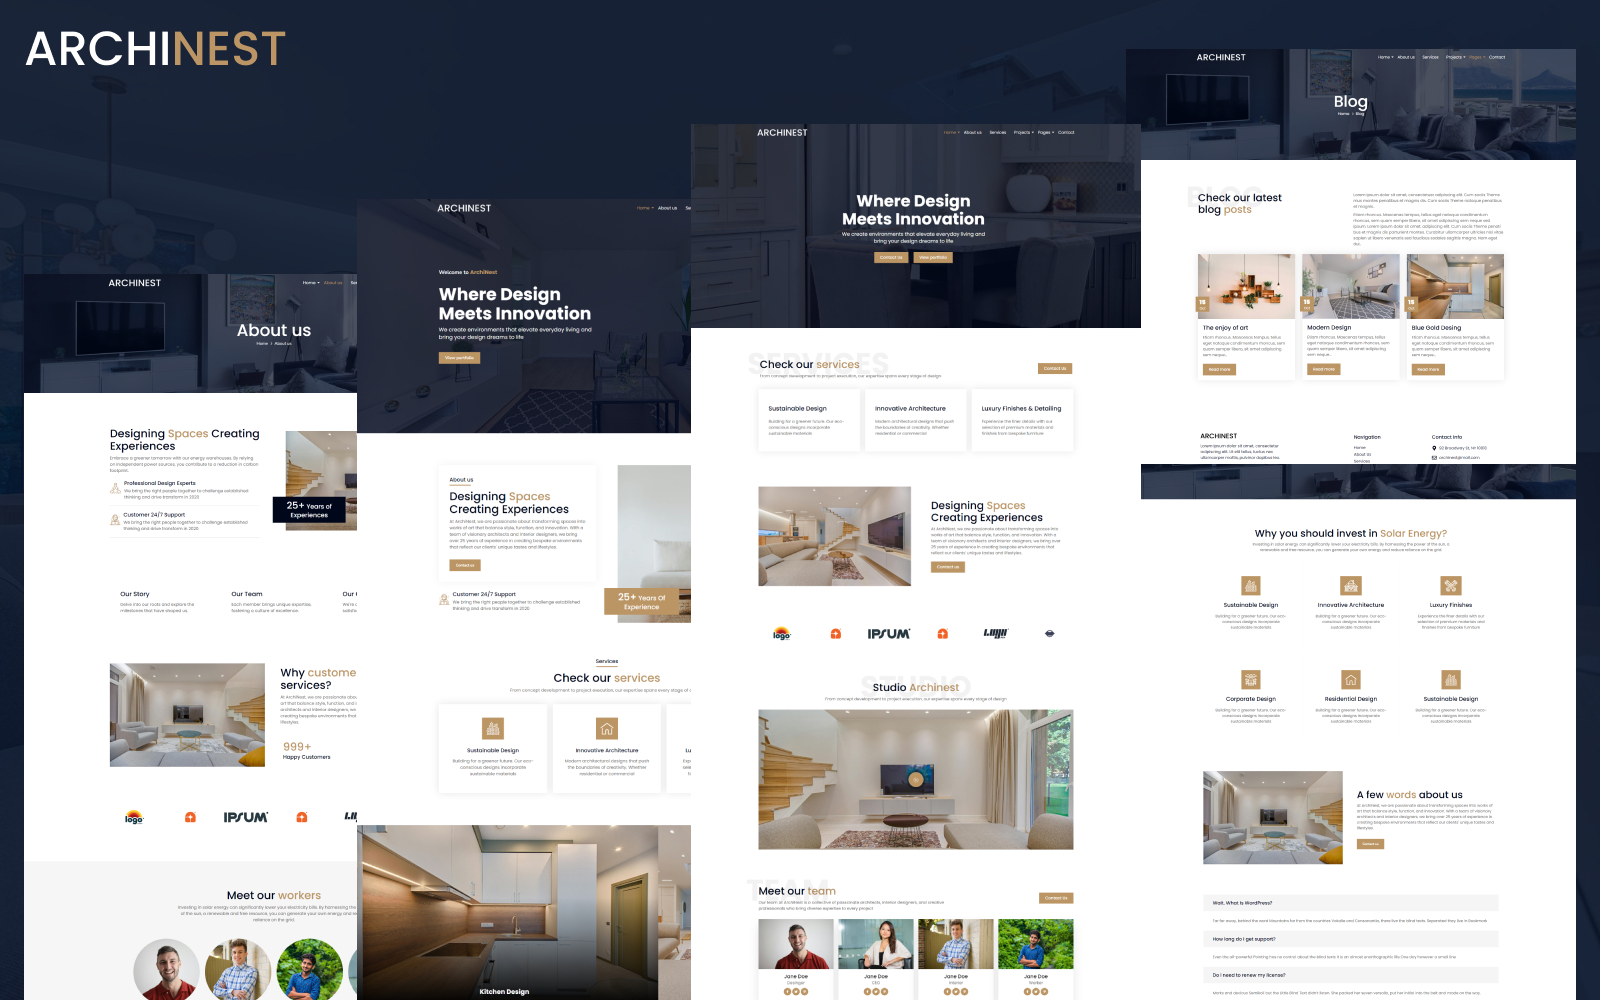
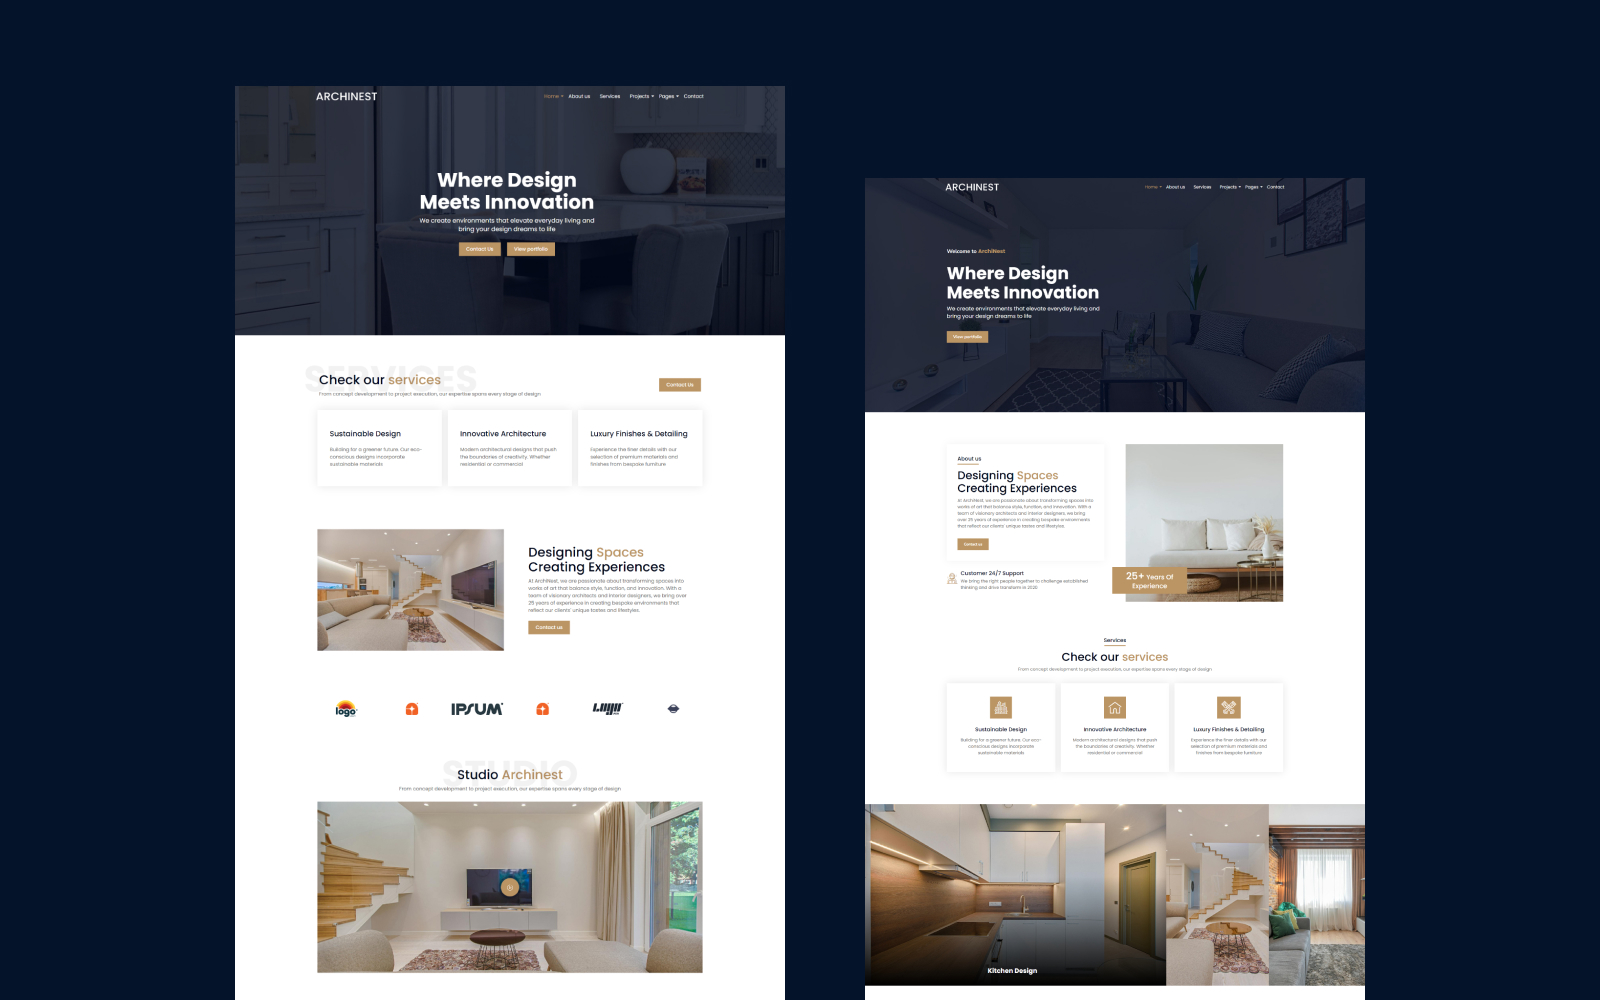
feat: add collaboration component with detailed steps and update RecentProject layout; improve image handling and text clarity

diff --git a/app/page.tsx b/app/page.tsx
@@ -1,10 +1,10 @@
+import { navItems } from "@/data";
 import Grid from "@/components/Grid";
 import Hero from "@/components/Hero";
 import RecentProject from "@/components/RecentProject";
-import { navItems } from "@/data";
 import Experience from "../components/Experience";
+import Collaboration from "@/components/Collaboration";
 import Footer from "@/components/Footer";
-import 'swiper/css';
 import Navbar from "@/components/Navbar";
 
 export default function Home() {
@@ -21,47 +21,7 @@ export default function Home() {
         <Hero />
         <Grid />
         <RecentProject />
-        <div className="relative w-full space-y-12">
-          <div className="h-screen w-screen dark:bg-black-100 bg-white dark:bg-grid-white/[0.03] bg-grid-black/[0.2] absolute top-0 left-1/2 -translate-x-1/2 flex items-center justify-center">
-            <div className="absolute pointer-events-none inset-0 flex items-center justify-center dark:bg-black-100 bg-white [mask-image:radial-gradient(ellipse_at_center,transparent_20%,black)]"></div>
-          </div>
-          <div className="relative space-y-6 z-10">
-            <h2 className="heading">
-                Jak wygląda współpraca?
-            </h2>
-            <p className="text-slate-400 text-base text-center max-w-3xl mx-auto">Proces współpracy jest prosty i przejrzysty – zaczynamy od rozmowy, ustalamy szczegóły, tworzę projekt, wdrażam go, a następnie dopracowujemy szczegóły przed finalnym uruchomieniem. Dzięki temu masz pełną kontrolę nad efektem końcowym!</p>
-          </div>
-          <div className="relative grid grid-cols-12 z-10">
-            {/* First row - span 6 columns */}
-            <div className="flex flex-col items-center justify-center text-center col-span-12 md:col-span-6 px-6 py-8 xl:p-12 space-y-4 border-y md:border-r md:border-t-0 border-b border-white/[0.1]">
-              <div className="w-fit text-6xl bg-black-200 p-4 rounded-xl">01</div>
-              <div className="text-white text-2xl">Kontakt i analiza potrzeb</div>
-              <p className="text-slate-400 text-base">Rozpoczynamy od rozmowy lub wypełnienia formularza, aby dokładnie zrozumieć Twoje potrzeby i cele projektu.</p>
-            </div>
-            <div className="flex flex-col items-center justify-center text-center col-span-12 md:col-span-6 px-6 py-8 xl:p-12 space-y-4 border-b border-white/[0.1]">
-              <div className="w-fit text-6xl bg-black-200 p-4 rounded-xl">02</div>
-              <div className="text-white text-2xl">Wycena i ustalenia</div>
-              <p className="text-slate-400 text-base">Na podstawie zebranych informacji przygotowuję szczegółową wycenę, ustalamy zakres prac, harmonogram oraz warunki współpracy.</p>
-            </div>
-
-            {/* Second row - span 4 columns each */}
-            <div className="flex flex-col items-center justify-center text-center col-span-12 md:col-span-6 lg:col-span-4 px-6 py-8 xl:p-12 space-y-4 md:border-r border-white/[0.1] border-b lg:border-b-0 lg:border-r">
-              <div className="w-fit text-6xl bg-black-200 p-4 rounded-xl">03</div>
-              <div className="text-white text-2xl">Projekt i development</div>
-              <p className="text-slate-400 text-base">Tworzę projekt graficzny oraz wdrażam funkcjonalności, dbając o responsywność, wydajność i estetykę strony.</p>
-            </div>
-            <div className="flex flex-col items-center justify-center text-center col-span-12 md:col-span-6 lg:col-span-4 px-6 py-8 xl:p-12 space-y-4 border-b border-white/[0.1] lg:border-b-0 lg:border-r">
-              <div className="w-fit text-6xl bg-black-200 p-4 rounded-xl">04</div>
-              <div className="text-white text-2xl">Testowanie i poprawki </div>
-              <p className="text-slate-400 text-base">Przeprowadzam testy, sprawdzam poprawność działania i nanoszę ewentualne poprawki, aby wszystko działało zgodnie z oczekiwaniami.</p>
-            </div>
-            <div className="flex flex-col items-center justify-center text-center col-span-12 lg:col-span-4 px-6 py-8 xl:p-12 space-y-4 border-b border-white/[0.1] md:border-0">
-              <div className="w-fit text-6xl bg-black-200  p-4 rounded-xl">05</div>
-              <div className="text-white text-2xl">Finalizacja i wdrożenie</div>
-              <p className="text-slate-400 text-base">Uruchamiam stronę na docelowym serwerze oraz przeprowadzam krótkie szkolenie z jej obsługi, abyś mógł w pełni z niej korzystać.</p>
-            </div>
-          </div>
-        </div>
+        <Collaboration />
         <Experience />
         <Footer />
       </div>

diff --git a/components/Collaboration.tsx b/components/Collaboration.tsx
@@ -1,0 +1,70 @@
+'use client'
+import React from 'react'
+
+const collaborationSteps = [
+  {
+    id: "01",
+    title: "Kontakt i analiza potrzeb",
+    description: "Rozpoczynamy od rozmowy lub wypełnienia formularza, aby dokładnie zrozumieć Twoje potrzeby i cele projektu."
+  },
+  {
+    id: "02",
+    title: "Wycena i ustalenia",
+    description: "Na podstawie zebranych informacji przygotowuję szczegółową wycenę, ustalamy zakres prac, harmonogram oraz warunki współpracy."
+  },
+  {
+    id: "03",
+    title: "Projekt i development",
+    description: "Tworzę projekt graficzny oraz wdrażam funkcjonalności, dbając o responsywność, wydajność i estetykę strony."
+  },
+  {
+    id: "04",
+    title: "Testowanie i poprawki",
+    description: "Przeprowadzam testy, sprawdzam poprawność działania i nanoszę ewentualne poprawki, aby wszystko działało zgodnie z oczekiwaniami."
+  },
+  {
+    id: "05",
+    title: "Finalizacja i wdrożenie",
+    description: "Uruchamiam stronę na docelowym serwerze oraz przeprowadzam krótkie szkolenie z jej obsługi, abyś mógł w pełni z niej korzystać."
+  }
+]
+
+const Collaboration = () => {
+  return (
+    <div className="relative w-full space-y-12">
+      <div className="h-screen w-screen dark:bg-black-100 bg-white dark:bg-grid-white/[0.03] bg-grid-black/[0.2] absolute top-0 left-1/2 -translate-x-1/2 flex items-center justify-center">
+        <div className="absolute pointer-events-none inset-0 flex items-center justify-center dark:bg-black-100 bg-white [mask-image:radial-gradient(ellipse_at_center,transparent_20%,black)]"></div>
+      </div>
+      <div className="relative space-y-6 z-10">
+        <h2 className="heading">
+          Jak wygląda współpraca?
+        </h2>
+        <p className="text-slate-400 text-base text-center max-w-3xl mx-auto">
+          Proces współpracy jest prosty i przejrzysty – zaczynamy od rozmowy, ustalamy szczegóły, tworzę projekt, wdrażam go, a następnie dopracowujemy szczegóły przed finalnym uruchomieniem. Dzięki temu masz pełną kontrolę nad efektem końcowym!
+        </p>
+      </div>
+      <div className="relative grid grid-cols-12 z-10">
+        {collaborationSteps.map((step, index) => (
+          <div 
+            key={step.id}
+            className={`flex flex-col items-center justify-center text-center col-span-12 
+              ${index < 2 ? 'md:col-span-6' : 'md:col-span-6 lg:col-span-4'}
+              px-6 py-8 xl:p-12 space-y-4
+              ${index === 0 ? 'border-y md:border-r md:border-t-0' : ''}
+              ${index === 1 ? '' : ''}
+              ${index === 2 ? 'md:border-r lg:border-b-0' : ''}
+              ${index === 3 ? 'lg:border-r lg:border-b-0' : ''}
+              ${index === 4 ? 'md:border-0 !col-span-12 lg:!col-span-4' : ''}
+              border-b border-white/[0.1]`}
+          >
+            <div className="w-fit text-6xl bg-black-200 p-4 rounded-xl">{step.id}</div>
+            <div className="text-white text-2xl">{step.title}</div>
+            <p className="text-slate-400 text-base">{step.description}</p>
+          </div>
+        ))}
+      </div>
+    </div>
+  )
+}
+
+export default Collaboration

diff --git a/components/RecentProject.tsx b/components/RecentProject.tsx
@@ -16,9 +16,11 @@ const RecentProject = () => {
     <div id="projekty" className="space-y-12">
         <div className="space-y-6">
           <h2 className="heading">
-              Sprawdz moje ostatnie projekty
+            Sprawdz moje ostatnie projekty
           </h2>
-          <p className="text-slate-400 text-base text-center max-w-3xl mx-auto">Proces współpracy jest prosty i przejrzysty, tworzę projekt, wdrażam go, a następnie dopracowujemy szczegóły przed finalnym uruchomieniem. Dzięki temu masz pełną kontrolę nad efektem końcowym!</p>
+          <p className="text-slate-400 text-base text-center max-w-3xl mx-auto">
+            Sprawdź moje najnowsze projekty, w których łączę nowoczesny design z wydajnym kodem.
+          </p>
         </div>
 
         <div className="relative px-8 lg:px-6">
@@ -53,9 +55,12 @@ const RecentProject = () => {
         >
           {projects.map(({ id, title, des, img, link }) => (
             <SwiperSlide key={id}>
-              <div className="w-full flex items-center justify-center rounded-3xl border border-white/[0.1]">
+              <div className="w-full flex items-center justify-center rounded-3xl">
                 <div className="flex basis-full flex-col tracking-tight text-slate-100/50">
-                  <div className="relative w-full h-[200px] lg:h-[400px] overflow-hidden rounded-t-3xl bg-[#13162d]">
+                  <div className="relative w-full h-[200px] lg:h-[400px] overflow-hidden rounded-t-3xl bg-black-200">
+                    {/* Light effect */}
+                    <div className="absolute -left-20 -top-20 w-[200px] h-[200px] rounded-full bg-purple/10 blur-[100px] pointer-events-none" />
+                    <div className="absolute -right-20 -bottom-20 w-[200px] h-[200px] rounded-full bg-purple/10 blur-[100px] pointer-events-none" />
                     <Image 
                       src={img} 
                       alt={title} 
@@ -64,13 +69,13 @@ const RecentProject = () => {
                       className="w-full h-full object-cover relative"
                       priority
                     />
-                    <div className="absolute inset-0 bg-gradient-to-br from-[#393bb2]/10 to-transparent"></div>
+                    {/* <div className="absolute inset-0 bg-gradient-to-br from-[#393bb2]/10 to-transparent"></div> */}
                   </div>
                   
-                  <div className="p-6 lg:p-8 space-y-2">
-                    <h3 className="font-bold text-base lg:text-xl text-slate-100">
+                  <div className="p-6 lg:p-8 space-y-2 border border-t-0 rounded-b-3xl border-white/[0.1]">
+                    <div className="font-bold text-base lg:text-xl text-slate-100">
                       {title}
-                    </h3>
+                    </div>
                     <p className="text-sm lg:text-base text-slate-400 line-clamp-2">
                       {des}
                     </p>

diff --git a/data/index.ts b/data/index.ts
@@ -17,9 +17,11 @@ export const navItems = [
     },
     {
       id: 2,
-      title: `Cześć! Nazywam się Szymon Piątkowski i tworzę nowoczesne, responsywne strony internetowe oparte na WordPress i WooCommerce. Specjalizuję się w dedykowanych rozwiązaniach – nie korzystam z gotowych szablonów, dzięki czemu każdy projekt jest unikalny i dostosowany do potrzeb klienta.
-            <br /><br />Dbam o funkcjonalność, wydajność i bezpieczeństwo stron, a także o przejrzysty proces współpracy – od projektu graficznego, przez kodowanie, aż po wdrożenie.
-            <br /><br /> Jeśli szukasz kogoś, kto stworzy stronę od A do Z i zadba o każdy szczegół, zapraszam do kontaktu! 🚀`,
+      title: `Cześć! Nazywam się Szymon i tworzę nowoczesne, responsywne strony internetowe oparte na technologiach takich jak Next.js, React i WordPress. Stawiam na dedykowane rozwiązania, które są szybkie, wydajne i dopasowane do indywidualnych potrzeb klienta.
+              <br /><br />
+              Dbam o jakość kodu, optymalizację oraz intuicyjność stron, a cały proces realizacji – od projektu graficznego, przez kodowanie, aż po wdrożenie – przebiega w sposób przejrzysty i sprawny.
+              <br /><br />
+              Jeśli szukasz osoby, która stworzy stronę od A do Z i zadba o każdy detal – zapraszam do kontaktu! 🚀`,
       subtitle: "Kilka słów o mnie 👨💻",
       className: "lg:col-span-6 col-span-12",
       titleClassName: "justify-start",
@@ -44,7 +46,7 @@ export const navItems = [
       id: 1,
       title: "Gama OZE",
       des: "Explore the wonders of our solar system with this captivating 3D simulation of the planets using Three.js.",
-      img: "/project-1.jpg",
+      img: "/project-1.png",
       link: "https://gamaoze.pl/",
     },
     {
